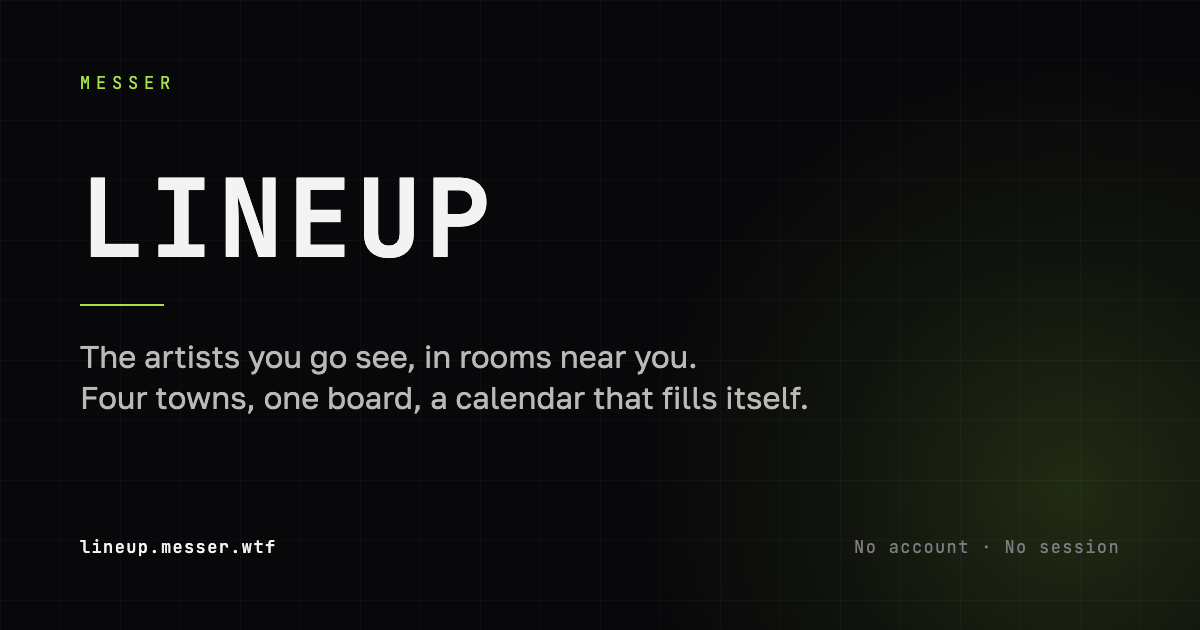
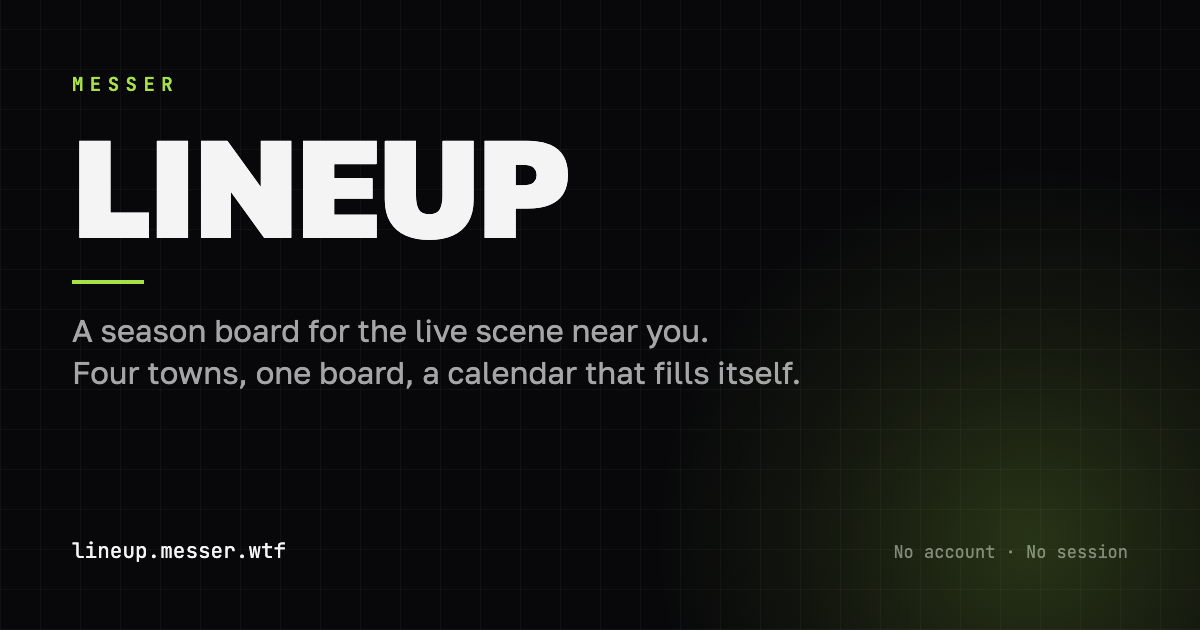
docs: the board is a scene board

diff --git a/web/index.html b/web/index.html
@@ -4,13 +4,13 @@
     <meta charset="utf-8" />
     <meta name="viewport" content="width=device-width, initial-scale=1" />
     <title>Messer Lineup</title>
-    <meta name="description" content="The artists you go see, in rooms near you. A board of gigs for the towns we index." />
+    <meta name="description" content="A season board for the live scene near you. The gigs in the towns we index, with a calendar that fills itself." />
     <meta name="color-scheme" content="light dark" />
     <!-- A link in a chat should arrive with the board's own face, not a grey rectangle. One card for the whole site:
          a per-board card is a Worker route, and a board is a URL a crawler does not fetch. -->
     <meta property="og:type" content="website" />
     <meta property="og:site_name" content="Messer Lineup" />
-    <meta property="og:title" content="Messer Lineup — the artists you go see, in rooms near you" />
+    <meta property="og:title" content="Messer Lineup — a season board for the live scene near you" />
     <meta property="og:description" content="Four towns, one board, and a calendar that fills itself. No account, no session." />
     <meta property="og:url" content="https://lineup.messer.wtf/" />
     <meta property="og:image" content="https://lineup.messer.wtf/og.png" />
@@ -19,7 +19,7 @@
     <meta property="og:image:alt" content="Messer Lineup on a near-black card with a lime rule" />
     <meta name="twitter:card" content="summary_large_image" />
     <meta name="twitter:title" content="Messer Lineup" />
-    <meta name="twitter:description" content="The artists you go see, in rooms near you. Four towns, one board." />
+    <meta name="twitter:description" content="The live scene in the rooms near you. Four towns, one board." />
     <meta name="twitter:image" content="https://lineup.messer.wtf/og.png" />
     <link rel="icon" href="/favicon.svg" type="image/svg+xml" />
     <link rel="icon" href="/favicon-32.png" sizes="32x32" type="image/png" />

diff --git a/README.md b/README.md
@@ -1,20 +1,19 @@
 <!-- messer:hero — generated by `python3 ~/Repos/messer-projects/scripts/publish.py --repo . --assets` -->
 <picture>
   <source media="(prefers-color-scheme: dark)" srcset="docs/brand/banner-dark.png">
-  <img src="docs/brand/banner-light.png" alt="Messer Lineup — A season board for the artists you actually listen to" width="1200">
+  <img src="docs/brand/banner-light.png" alt="Messer Lineup — A season board for the live scene near you" width="1200">
 </picture>
 
-**A season board for the artists you actually listen to.**
+**A season board for the live scene near you.**
 
 `MIT` · `Go` · `v1.0.0`
 <!-- /messer:hero -->
 
-**[lineup.messer.wtf](https://lineup.messer.wtf)** — a global season board: the artists you listen to, in
-rooms near a point you choose, in a date window. No account, no session; the board is public and a taste
-list lives in the URL.
+**[lineup.messer.wtf](https://lineup.messer.wtf)** — a season board: what is on in the rooms near a point you
+choose, in a date window. No account, no session; the board is public.
 
-Your taste is a list you paste, pick from the acts playing near you, or import from ListenBrainz; a fresh
-visitor still gets the town board.
+The board is complete without a list of your own. Add the acts you go see — pasted, picked from the artists
+playing near you, or imported from ListenBrainz — and `yours` appears beside `all`.
 
 ## Run
 

diff --git a/docs/state.md b/docs/state.md
@@ -1,8 +1,9 @@
 # The board's state: two places, and nothing server-side
 
-A board is a function of two things a person chose — a scope (a town, or everywhere) and a taste (an artist list, a
-set of genres, or both) — plus one thing they did not: what was here last time. The choices go in the URL, because a board should be a link. The memory
-stays in the browser, because it is about the visitor and not about the board.
+A board is a function of **where** — a scope (a town, or everywhere) — and, when the reader wants it, of **what they go
+see**: an artist list, a set of genres, or both. The scope is the front door; the taste is a lens on it. The choices go
+in the URL, because a board should be a link. The memory stays in the browser, because it is about the visitor and not
+about the board.
 
 ## In the URL
 
